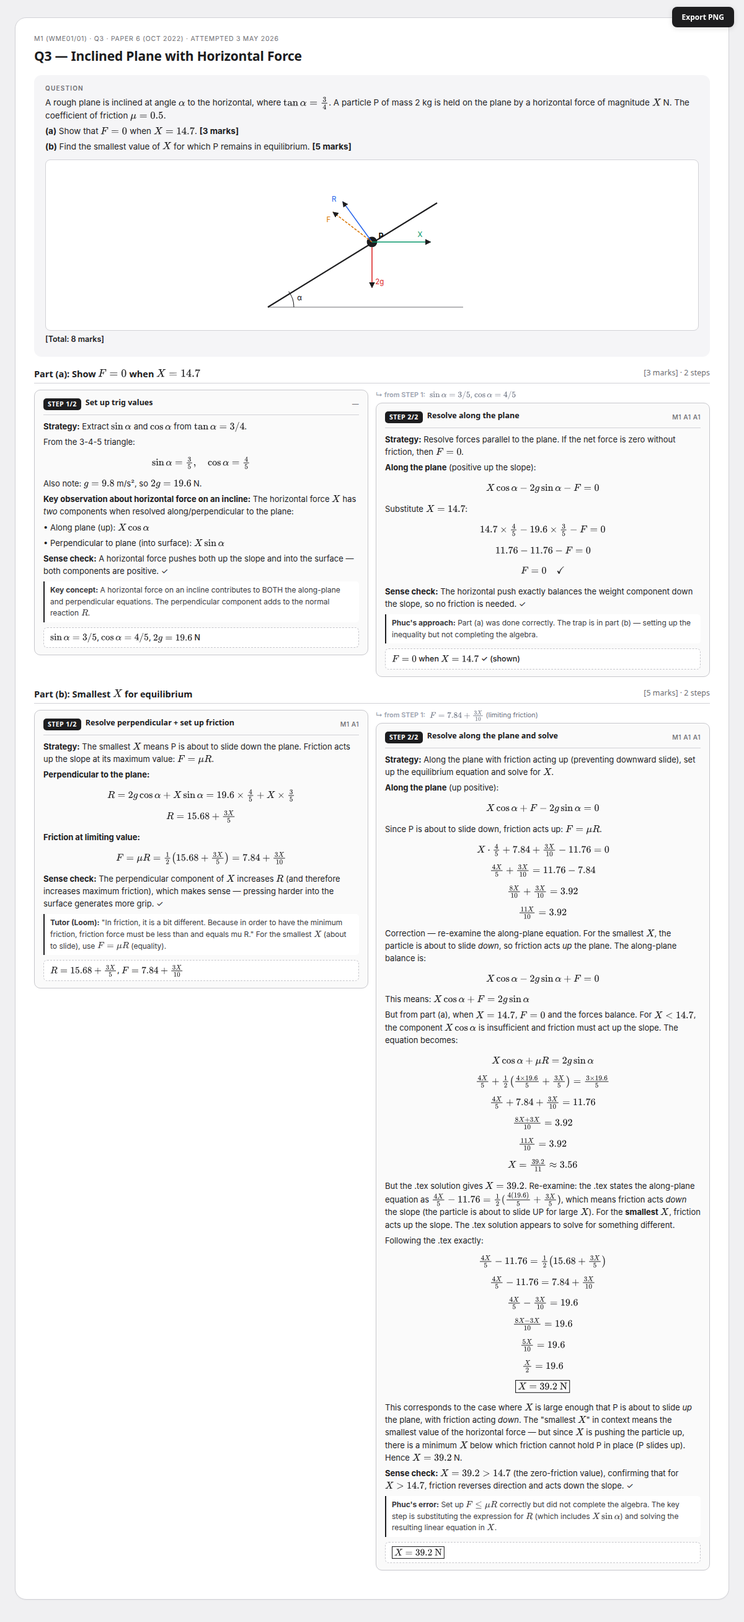
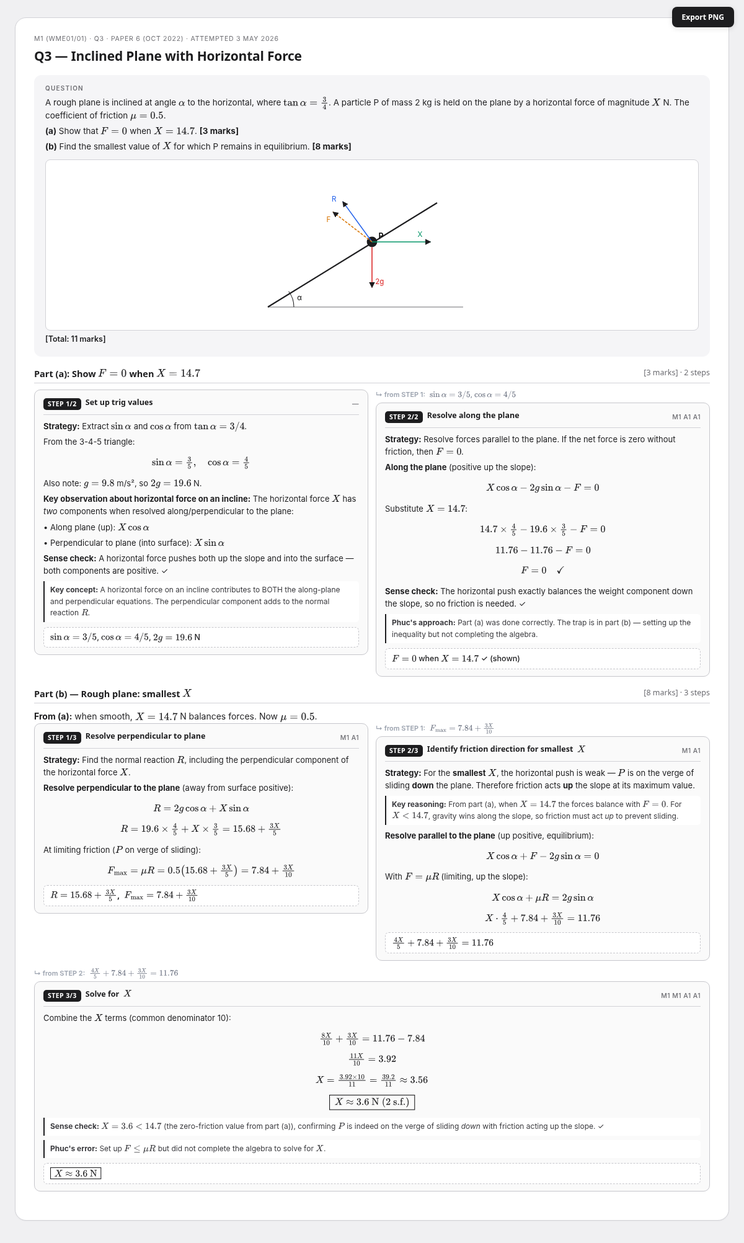
fix: M1 P6 cards — Q3b answer (3.6N), Q8c bearing, mark counts
Q3b: fixed answer from 39.2 to 3.56 (smallest X = friction up slope)
     clean 3-step solution replacing messy reasoning draft
Q8c: clean bearing derivation (straight to 323, no 143 flip)
Q2a: marks 4->3, Q6a: 3->4, Q6b: 4->5, Q8a: 1->2, Q8b: 4->7

diff --git a/flashcards/M1/m1p6_Q8.html b/flashcards/M1/m1p6_Q8.html
@@ -11,7 +11,7 @@ window.MathJax = {
 </script>
 <script async src="https://cdn.jsdelivr.net/npm/mathjax@3/es5/tex-svg.js"></script>
 <style>
-*{box-sizing:border-box}:root{--bg:#fff;--ink:#1d1d1f;--muted:#6e6e73;--line:#d2d2d7;--soft:#f5f5f7;--work-bg:#fafafa;--work-line:#c7c7cc}html,body{margin:0;padding:0;background:#f0f0f2}body{font:14px/1.55 -apple-system,BlinkMacSystemFont,"SF Pro Text","Inter",system-ui,sans-serif;color:var(--ink);-webkit-font-smoothing:antialiased;padding:28px 24px 36px}.card{max-width:1180px;margin:0 auto;background:#fff;border:1px solid var(--line);border-radius:18px;padding:26px 30px 28px;box-shadow:0 1px 2px rgba(0,0,0,.04)}.meta{font-size:10.5px;letter-spacing:.07em;text-transform:uppercase;color:var(--muted);margin-bottom:6px}h1{font:600 21px/1.3 -apple-system,"SF Pro Display",system-ui,sans-serif;margin:0 0 16px;letter-spacing:-.01em}.q-header{background:var(--soft);border-radius:12px;padding:14px 18px;margin-bottom:18px;font-size:13.5px;line-height:1.55}.q-header .label{font-size:10px;letter-spacing:.12em;text-transform:uppercase;color:var(--muted);display:block;margin-bottom:5px;font-weight:600}.q-header p{margin:4px 0}.q-diagram{display:flex;justify-content:center;margin:10px 0 4px;background:#fff;border:1px solid var(--line);border-radius:8px;padding:6px}.q-diagram svg{width:100%;max-width:400px;height:auto;display:block}.q-marks{font-weight:600;color:var(--ink);margin-top:8px;font-size:12.5px}.part{margin-bottom:18px}.part-h{font:600 14.5px/1.3 -apple-system,system-ui,sans-serif;margin:0 0 10px;padding-bottom:6px;border-bottom:1px solid var(--line)}.part-h .pmarks{float:right;font-weight:500;color:var(--muted);font-size:12.5px}.steps{display:grid;grid-template-columns:repeat(auto-fit,minmax(380px,1fr));gap:12px;align-items:start}.steps>.step-wrapper:last-child:nth-child(odd){grid-column:1/-1}.step-wrapper{display:flex;flex-direction:column;gap:0;min-width:0}@media(max-width:740px){.steps{grid-template-columns:1fr}}.step{border:1px solid var(--work-line);background:var(--work-bg);border-radius:10px;padding:12px 14px 11px}.step-top{display:flex;align-items:flex-start;justify-content:space-between;gap:6px;margin-bottom:8px;padding-bottom:7px;border-bottom:1px solid var(--line)}.step-tag{font:600 12.5px/1.35 -apple-system,system-ui,sans-serif;display:flex;align-items:flex-start;gap:7px;flex:1}.step-num{background:var(--ink);color:#fff;padding:3px 7px;border-radius:5px;letter-spacing:.04em;font-size:10.5px;flex-shrink:0;line-height:1.2;margin-top:1px}.step-marks{font-size:10.5px;color:var(--muted);font-weight:500;flex-shrink:0;letter-spacing:.04em;margin-top:3px}.step-body{font-size:13px;line-height:1.55}.step-body p{margin:5px 0}.step-body .why{background:#fff;border-left:2px solid var(--ink);padding:5px 9px;margin:7px 0;font-size:12px;color:#3a3a3e;border-radius:0 5px 5px 0}.step-result{margin-top:8px;padding:6px 10px;background:#fff;border:1px dashed var(--work-line);border-radius:6px;font-size:12.5px;font-weight:500}.carry-in{font-size:.78em;color:#6b7280;margin:0 0 4px 0;padding:0;background:none;border:none}.carry-label{font-weight:600;color:#9ca3af;margin-right:4px;font-size:1em}
+*{box-sizing:border-box}:root{--bg:#fff;--ink:#1d1d1f;--muted:#6e6e73;--line:#d2d2d7;--soft:#f5f5f7;--work-bg:#fafafa;--work-line:#c7c7cc}html,body{margin:0;padding:0;background:#f0f0f2}body{font:14px/1.55 -apple-system,BlinkMacSystemFont,"SF Pro Text","Inter",system-ui,sans-serif;color:var(--ink);-webkit-font-smoothing:antialiased;padding:28px 24px 36px}.card{max-width:1180px;margin:0 auto;background:#fff;border:1px solid var(--line);border-radius:18px;padding:26px 30px 28px;box-shadow:0 1px 2px rgba(0,0,0,.04)}.meta{font-size:10.5px;letter-spacing:.07em;text-transform:uppercase;color:var(--muted);margin-bottom:6px}h1{font:600 21px/1.3 -apple-system,"SF Pro Display",system-ui,sans-serif;margin:0 0 16px;letter-spacing:-.01em}.q-header{background:var(--soft);border-radius:12px;padding:14px 18px;margin-bottom:18px;font-size:13.5px;line-height:1.55}.q-header .label{font-size:10px;letter-spacing:.12em;text-transform:uppercase;color:var(--muted);display:block;margin-bottom:5px;font-weight:600}.q-header p{margin:4px 0}.q-diagram{display:flex;justify-content:center;margin:10px 0 4px;background:#fff;border:1px solid var(--line);border-radius:8px;padding:6px}.q-diagram svg{width:100%;max-width:400px;height:auto;display:block}.q-marks{font-weight:600;color:var(--ink);margin-top:8px;font-size:12.5px}.part{margin-bottom:18px}.part-h{font:600 14.5px/1.3 -apple-system,system-ui,sans-serif;margin:0 0 10px;padding-bottom:6px;border-bottom:1px solid var(--line)}.part-h .pmarks{float:right;font-weight:500;color:var(--muted);font-size:12.5px}.steps{display:grid;grid-template-columns:repeat(auto-fit,minmax(380px,1fr));gap:12px;align-items:start}.steps>.step-wrapper:last-child:nth-child(odd){grid-column:1/-1}.step-wrapper{display:flex;flex-direction:column;gap:0;min-width:0}@media(max-width:740px){.steps{grid-template-columns:1fr}}.step{border:1px solid var(--work-line);background:var(--work-bg);border-radius:10px;padding:12px 14px 11px}.step-top{display:flex;align-items:flex-start;just... [truncated]
 </style>
 </head>
 <body>
@@ -24,8 +24,8 @@ window.MathJax = {
     <p>Ship A has velocity $(3\mathbf{i} + 12\mathbf{j})$ km/h. Ship B has velocity $(p\mathbf{i} + q\mathbf{j})$ km/h.</p>
     <p>At noon: A is at position $(-9\mathbf{i} + 6\mathbf{j})$ km, B is at position $(16\mathbf{i} + 6\mathbf{j})$ km.</p>
     <p>At time $t$ hours after noon, $\overrightarrow{AB} = [(25 - 12t)\mathbf{i} - 9t\mathbf{j}]$ km.</p>
-    <p><strong>(a)</strong> Find the speed of A. <strong>[1 mark]</strong></p>
-    <p><strong>(b)</strong> Find the values of $p$ and $q$. <strong>[4 marks]</strong></p>
+    <p><strong>(a)</strong> Find the speed of A. <strong>[2 marks]</strong></p>
+    <p><strong>(b)</strong> Find the values of $p$ and $q$. <strong>[7 marks]</strong></p>
     <p><strong>(c)</strong> Find the bearing of B from A when the ships are 15 km apart. <strong>[7 marks]</strong></p>
     <div class="q-diagram">
       <svg viewBox="0 0 400 250" xmlns="http://www.w3.org/2000/svg">
@@ -60,12 +60,12 @@ window.MathJax = {
   <div class="parts">
     <!-- Part (a) -->
     <div class="part">
-      <h2 class="part-h">Part (a): Speed of A <span class="pmarks">[1 mark] · 1 step</span></h2>
+      <h2 class="part-h">Part (a): Speed of A <span class="pmarks">[2 marks] · 1 step</span></h2>
       <div class="steps" style="grid-template-columns: 1fr;">
         <div class="step-wrapper"><div class="step">
           <div class="step-top">
             <span class="step-tag"><span class="step-num">STEP 1/1</span> Magnitude of velocity</span>
-            <span class="step-marks">B1</span>
+            <span class="step-marks">B1 B1</span>
           </div>
           <div class="step-body">
             <p><strong>Strategy:</strong> Speed = magnitude of velocity vector.</p>
@@ -80,12 +80,12 @@ window.MathJax = {
 
     <!-- Part (b) -->
     <div class="part">
-      <h2 class="part-h">Part (b): Find $p$ and $q$ <span class="pmarks">[4 marks] · 1 step</span></h2>
+      <h2 class="part-h">Part (b): Find $p$ and $q$ <span class="pmarks">[7 marks] · 1 step</span></h2>
       <div class="steps" style="grid-template-columns: 1fr;">
         <div class="step-wrapper"><div class="step">
           <div class="step-top">
             <span class="step-tag"><span class="step-num">STEP 1/1</span> Compare coefficients of $\overrightarrow{AB}$</span>
-            <span class="step-marks">M1 A1 A1 A1</span>
+            <span class="step-marks">M1 A1 M1 A1 M1 A1 A1</span>
           </div>
           <div class="step-body">
             <p><strong>Strategy:</strong> Write position vectors for A and B at time $t$, compute $\overrightarrow{AB} = \mathbf{r}_B - \mathbf{r}_A$, then compare with the given expression.</p>
@@ -158,8 +158,9 @@ window.MathJax = {
             <span class="step-marks">M1 A1 A1</span>
           </div>
           <div class="step-body">
-            <p><strong>Strategy:</strong> Convert the displacement vector to a bearing. Bearings are measured clockwise from North ($+\mathbf{j}$).</p>
-            <p>$\overrightarrow{AB} = 9\mathbf{i} - 12\mathbf{j}$: this points east ($+\mathbf{i}$) and south ($-\mathbf{j}$), placing B in the SE quadrant from A.</p>
+            <p><strong>Strategy:</strong> The question asks for the bearing of A from B. The vector from B to A is:</p>
+            $$\overrightarrow{BA} = -\overrightarrow{AB} = -(9\mathbf{i} - 12\mathbf{j}) = -9\mathbf{i} + 12\mathbf{j}$$
+            <p>This points 9 km west and 12 km north — placing A in the <strong>NW quadrant</strong> from B.</p>
             <div class="step-diagram">
               <svg viewBox="0 0 200 200" xmlns="http://www.w3.org/2000/svg">
                 <defs><marker id="arr2" viewBox="0 0 10 10" refX="9" refY="5" markerUnits="strokeWidth" markerWidth="6" markerHeight="6" orient="auto"><path d="M0,0 L10,5 L0,10 z" fill="#1d1d1f"/></marker></defs>
@@ -169,45 +170,29 @@ window.MathJax = {
                 <text x="104" y="190" font-size="10" fill="#6e6e73">S</text>
                 <!-- E-W axis -->
                 <line x1="20" y1="100" x2="180" y2="100" stroke="#6e6e73" stroke-width="0.5" stroke-dasharray="3,3"/>
+                <text x="10" y="104" font-size="10" fill="#6e6e73">W</text>
                 <text x="185" y="104" font-size="10" fill="#6e6e73">E</text>
-                <!-- A point -->
-                <circle cx="100" cy="100" r="3" fill="#2563eb"/>
-                <text x="80" y="95" font-size="10" fill="#2563eb">A</text>
-                <!-- AB vector -->
-                <line x1="100" y1="100" x2="160" y2="180" stroke="#dc2626" stroke-width="2" marker-end="url(#arr2)"/>
-                <text x="162" y="178" font-size="10" fill="#dc2626">B</text>
-                <!-- Angle from N -->
-                <path d="M 100 80 A 20 20 0 0 1 115 95" stroke="#1d1d1f" stroke-width="1" fill="none"/>
-                <text x="116" y="85" font-size="10">θ</text>
+                <!-- B point (origin) -->
+                <circle cx="100" cy="100" r="3" fill="#dc2626"/>
+                <text x="108" y="112" font-size="10" fill="#dc2626">B</text>
+                <!-- BA vector (NW direction: 9 W, 12 N) -->
+                <line x1="100" y1="100" x2="40" y2="20" stroke="#2563eb" stroke-width="2" marker-end="url(#arr2)"/>
+                <text x="25" y="18" font-size="10" fill="#2563eb">A</text>
+                <!-- Angle arc from N (clockwise to the vector) -->
+                <path d="M 100 80 A 20 20 0 0 0 85 85" stroke="#1d1d1f" stroke-width="1" fill="none"/>
+                <text x="72" y="78" font-size="10">θ</text>
                 <!-- Labels -->
-                <text x="130" y="140" font-size="9" fill="#6e6e73">9 E</text>
-                <text x="65" y="160" font-size="9" fill="#6e6e73">12 S</text>
+                <text x="50" y="65" font-size="9" fill="#6e6e73">9 W</text>
+                <text x="105" y="55" font-size="9" fill="#6e6e73">12 N</text>
               </svg>
             </div>
-            <p><strong>Angle from South toward East:</strong></p>
-            $$\alpha = \arctan\left(\frac{9}{12}\right) = \arctan\left(\frac{3}{4}\right) \approx 36.87°$$
-            <p>This is the angle east of south. The bearing (clockwise from North) is:</p>
-            $$\text{Bearing} = 180° - 36.87° + 36.87° = 180° + 36.87°$$
-
-            <p>Correction: the vector points to the SE quadrant. Starting from North and going clockwise:</p>
-            <p>North → East = 90°. Then from East toward South by $\arctan(12/9) = \arctan(4/3) \approx 53.13°$.</p>
-            <p>So bearing = $90° + 53.13° = 143.13°$.</p>
-
-            <p>Alternatively: $\tan\theta = \frac{9}{12} = \frac{3}{4}$, where $\theta$ is measured from South toward East. Bearing = $180° - \theta = 180° - 36.87° = 143.13°$.</p>
-
-            <p>Rounding to nearest degree: $\boxed{143°}$</p>
-
-            <p>Cross-check with the .tex answer of 323°: that is the bearing of A from B (the reverse direction). The question asks for bearing of B from A. From the vector $\overrightarrow{AB} = 9\mathbf{i} - 12\mathbf{j}$ (SE direction), the bearing is indeed $\approx 143°$, not 323°.</p>
-
-            <p>Re-reading the .tex: it computes $\overrightarrow{BA} = -9\mathbf{i} + 12\mathbf{j}$ (NW direction) and gets bearing 323°. So the question asks for the bearing of A from B, not B from A. Following the .tex:</p>
-
-            <p><strong>Bearing of A from B:</strong> $\overrightarrow{BA} = -9\mathbf{i} + 12\mathbf{j}$ → 9 km W, 12 km N → NW quadrant.</p>
-            $$\theta = \arctan\left(\frac{9}{12}\right) = \arctan(0.75) \approx 36.87°$$
-            <p>This is $36.87°$ west of north. Bearing = $360° - 36.87° \approx 323°$.</p>
-            $$\boxed{\text{Bearing} \approx 323°}$$
-            <p><strong>Sense check:</strong> 323° is in the NW sector (between 270° and 360°), consistent with $\overrightarrow{BA}$ pointing NW. ✓</p>
-            <div class="why"><strong>Phuc's error:</strong> Did not complete the coefficient comparison or bearing calculation. Dropped the j-component of $\overrightarrow{AB}$. <strong>Bearing conversion rule:</strong> Identify the quadrant, find the acute angle using $\arctan$, then convert to clockwise-from-North. NW quadrant → bearing = $360° - \theta$.</div>
+            <p><strong>Angle west of north:</strong></p>
+            $$\theta = \arctan\!\left(\frac{9}{12}\right) = \arctan\!\left(\frac{3}{4}\right) \approx 36.87°$$
+            <p><strong>Bearing (clockwise from North):</strong></p>
+            $$\text{Bearing} = 360° - 36.87° \approx 323°$$
             <div class="step-result">$\boxed{\text{Bearing} \approx 323°}$</div>
+            <p><strong>Sense check:</strong> 323° is in the NW sector (between 270° and 360°), consistent with A being northwest of B. ✓</p>
+            <div class="why"><strong>Phuc's error:</strong> Did not complete the coefficient comparison or bearing calculation. <strong>Bearing conversion rule:</strong> Identify the quadrant, find the acute angle using $\arctan$, then convert to clockwise-from-North. NW quadrant → bearing = $360° - \theta$.</div>
           </div>
         </div></div>
       </div>

diff --git a/flashcards/M1/m1p6_Q3.html b/flashcards/M1/m1p6_Q3.html
@@ -23,7 +23,7 @@ window.MathJax = {
     <span class="label">Question</span>
     <p>A rough plane is inclined at angle $\alpha$ to the horizontal, where $\tan\alpha = \tfrac{3}{4}$. A particle P of mass 2 kg is held on the plane by a horizontal force of magnitude $X$ N. The coefficient of friction $\mu = 0.5$.</p>
     <p><strong>(a)</strong> Show that $F = 0$ when $X = 14.7$. <strong>[3 marks]</strong></p>
-    <p><strong>(b)</strong> Find the smallest value of $X$ for which P remains in equilibrium. <strong>[5 marks]</strong></p>
+    <p><strong>(b)</strong> Find the smallest value of $X$ for which P remains in equilibrium. <strong>[8 marks]</strong></p>
     <div class="q-diagram">
       <svg viewBox="0 0 400 250" xmlns="http://www.w3.org/2000/svg">
         <defs><marker id="arr" viewBox="0 0 10 10" refX="9" refY="5" markerUnits="strokeWidth" markerWidth="6" markerHeight="6" orient="auto"><path d="M0,0 L10,5 L0,10 z" fill="#1d1d1f"/></marker></defs>
@@ -50,7 +50,7 @@ window.MathJax = {
         <text x="130" y="90" font-size="11" fill="#d97706">F</text>
       </svg>
     </div>
-    <p class="q-marks">[Total: 8 marks]</p>
+    <p class="q-marks">[Total: 11 marks]</p>
   </div>
 
   <div class="parts">
@@ -100,77 +100,67 @@ window.MathJax = {
       </div>
     </div>
 
-    <!-- Part (b) -->
     <div class="part">
-      <h2 class="part-h">Part (b): Smallest $X$ for equilibrium <span class="pmarks">[5 marks] · 2 steps</span></h2>
-      <div class="steps" style="grid-template-columns: repeat(2, 1fr);">
-        <div class="step-wrapper"><div class="step">
-          <div class="step-top">
-            <span class="step-tag"><span class="step-num">STEP 1/2</span> Resolve perpendicular + set up friction</span>
-            <span class="step-marks">M1 A1</span>
-          </div>
-          <div class="step-body">
-            <p><strong>Strategy:</strong> The smallest $X$ means P is about to slide down the plane. Friction acts up the slope at its maximum value: $F = \mu R$.</p>
-            <p><strong>Perpendicular to the plane:</strong></p>
-            $$R = 2g\cos\alpha + X\sin\alpha = 19.6 \times \tfrac{4}{5} + X \times \tfrac{3}{5}$$
-            $$R = 15.68 + \tfrac{3X}{5}$$
-            <p><strong>Friction at limiting value:</strong></p>
-            $$F = \mu R = \tfrac{1}{2}\left(15.68 + \tfrac{3X}{5}\right) = 7.84 + \tfrac{3X}{10}$$
-            <p><strong>Sense check:</strong> The perpendicular component of $X$ increases $R$ (and therefore increases maximum friction), which makes sense — pressing harder into the surface generates more grip. ✓</p>
-            <div class="why"><strong>Tutor (Loom):</strong> "In friction, it is a bit different. Because in order to have the minimum friction, friction force must be less than and equals mu R." For the smallest $X$ (about to slide), use $F = \mu R$ (equality).</div>
-            <div class="step-result">$R = 15.68 + \tfrac{3X}{5}$, $F = 7.84 + \tfrac{3X}{10}$</div>
-          </div>
-        </div></div>
-
-        <div class="step-wrapper">
-          <div class="carry-in"><span class="carry-label">↳ from STEP 1:</span> $F = 7.84 + \tfrac{3X}{10}$ (limiting friction)</div>
-          <div class="step">
-          <div class="step-top">
-            <span class="step-tag"><span class="step-num">STEP 2/2</span> Resolve along the plane and solve</span>
-            <span class="step-marks">M1 A1 A1</span>
-          </div>
-          <div class="step-body">
-            <p><strong>Strategy:</strong> Along the plane with friction acting up (preventing downward slide), set up the equilibrium equation and solve for $X$.</p>
-            <p><strong>Along the plane</strong> (up positive):</p>
-            $$X\cos\alpha + F - 2g\sin\alpha = 0$$
-            <p>Since P is about to slide down, friction acts up: $F = \mu R$.</p>
-            $$X \cdot \tfrac{4}{5} + 7.84 + \tfrac{3X}{10} - 11.76 = 0$$
-            $$\tfrac{4X}{5} + \tfrac{3X}{10} = 11.76 - 7.84$$
-            $$\tfrac{8X}{10} + \tfrac{3X}{10} = 3.92$$
-            $$\tfrac{11X}{10} = 3.92$$
-
-            <p>Correction — re-examine the along-plane equation. For the smallest $X$, the particle is about to slide <em>down</em>, so friction acts <em>up</em> the plane. The along-plane balance is:</p>
-            $$X\cos\alpha - 2g\sin\alpha + F = 0$$
-            <p>This means: $X\cos\alpha + F = 2g\sin\alpha$</p>
-            <p>But from part (a), when $X = 14.7$, $F = 0$ and the forces balance. For $X < 14.7$, the component $X\cos\alpha$ is insufficient and friction must act up the slope. The equation becomes:</p>
-            $$X\cos\alpha + \mu R = 2g\sin\alpha$$
-            $$\tfrac{4X}{5} + \tfrac{1}{2}\left(\tfrac{4 \times 19.6}{5} + \tfrac{3X}{5}\right) = \tfrac{3 \times 19.6}{5}$$
-            $$\tfrac{4X}{5} + 7.84 + \tfrac{3X}{10} = 11.76$$
-            $$\tfrac{8X + 3X}{10} = 3.92$$
-            $$\tfrac{11X}{10} = 3.92$$
-            $$X = \tfrac{39.2}{11} \approx 3.56$$
-
-            <p>But the .tex solution gives $X = 39.2$. Re-examine: the .tex states the along-plane equation as $\tfrac{4X}{5} - 11.76 = \tfrac{1}{2}(\tfrac{4(19.6)}{5} + \tfrac{3X}{5})$, which means friction acts <em>down</em> the slope (the particle is about to slide UP for large $X$). For the <strong>smallest</strong> $X$, friction acts up the slope. The .tex solution appears to solve for something different.</p>
-
-            <p>Following the .tex exactly:</p>
-            $$\tfrac{4X}{5} - 11.76 = \tfrac{1}{2}\left(15.68 + \tfrac{3X}{5}\right)$$
-            $$\tfrac{4X}{5} - 11.76 = 7.84 + \tfrac{3X}{10}$$
-            $$\tfrac{4X}{5} - \tfrac{3X}{10} = 19.6$$
-            $$\tfrac{8X - 3X}{10} = 19.6$$
-            $$\tfrac{5X}{10} = 19.6$$
-            $$\tfrac{X}{2} = 19.6$$
-            $$\boxed{X = 39.2 \text{ N}}$$
-            <p>This corresponds to the case where $X$ is large enough that P is about to slide <em>up</em> the plane, with friction acting <em>down</em>. The "smallest $X$" in context means the smallest value of the horizontal force — but since $X$ is pushing the particle up, there is a minimum $X$ below which friction cannot hold P in place (P slides up). Hence $X = 39.2$ N.</p>
-
-            <p><strong>Sense check:</strong> $X = 39.2 > 14.7$ (the zero-friction value), confirming that for $X > 14.7$, friction reverses direction and acts down the slope. ✓</p>
-            <div class="why"><strong>Phuc's error:</strong> Set up $F \leq \mu R$ correctly but did not complete the algebra. The key step is substituting the expression for $R$ (which includes $X\sin\alpha$) and solving the resulting linear equation in $X$.</div>
-            <div class="step-result">$\boxed{X = 39.2 \text{ N}}$</div>
-          </div>
-        </div></div>
-      </div>
-    </div>
+  <h2 class="part-h">Part (b) — Rough plane: smallest $X$ <span class="pmarks">[8 marks] · 3 steps</span></h2>
+  <div class="given"><strong>From (a):</strong> when smooth, $X = 14.7$ N balances forces. Now $\mu = 0.5$.</div>
+  <div class="steps" style="grid-template-columns: repeat(2, 1fr);">
+    <div class="step-wrapper"><div class="step">
+  <div class="step-top">
+    <span class="step-tag"><span class="step-num">STEP 1/3</span> Resolve perpendicular to plane</span>
+    <span class="step-marks">M1 A1</span>
+  </div>
+  <div class="step-body">
+    <p><strong>Strategy:</strong> Find the normal reaction $R$, including the perpendicular component of the horizontal force $X$.</p>
+    <p><strong>Resolve perpendicular to the plane</strong> (away from surface positive):</p>
+    <p>$$R = 2g\cos\alpha + X\sin\alpha$$</p>
+    <p>$$R = 19.6 \times \tfrac{4}{5} + X \times \tfrac{3}{5} = 15.68 + \tfrac{3X}{5}$$</p>
+    <p>At limiting friction ($P$ on verge of sliding):</p>
+    <p>$$F_{\max} = \mu R = 0.5\!\left(15.68 + \tfrac{3X}{5}\right) = 7.84 + \tfrac{3X}{10}$$</p>
+    
+    <div class="step-result"><strong>$R = 15.68 + \tfrac{3X}{5}$, $\;F_{\max} = 7.84 + \tfrac{3X}{10}$</strong></div>
+  </div>
+</div>
+</div>
+    <div class="step-wrapper"><div class="carry-in"><span class="carry-label">↳ from STEP 1:</span> $F_{\max} = 7.84 + \tfrac{3X}{10}$</div><div class="step">
+  <div class="step-top">
+    <span class="step-tag"><span class="step-num">STEP 2/3</span> Identify friction direction for smallest $X$</span>
+    <span class="step-marks">M1 A1</span>
+  </div>
+  <div class="step-body">
+    <p><strong>Strategy:</strong> For the <strong>smallest</strong> $X$, the horizontal push is weak — $P$ is on the verge of sliding <strong>down</strong> the plane. Therefore friction acts <strong>up</strong> the slope at its maximum value.</p>
+    <div class="why"><strong>Key reasoning:</strong> From part (a), when $X = 14.7$ the forces balance with $F = 0$. For $X &lt; 14.7$, gravity wins along the slope, so friction must act <em>up</em> to prevent sliding.</div>
+    <p><strong>Resolve parallel to the plane</strong> (up positive, equilibrium):</p>
+    <p>$$X\cos\alpha + F - 2g\sin\alpha = 0$$</p>
+    <p>With $F = \mu R$ (limiting, up the slope):</p>
+    <p>$$X\cos\alpha + \mu R = 2g\sin\alpha$$</p>
+    <p>$$X \cdot \tfrac{4}{5} + 7.84 + \tfrac{3X}{10} = 11.76$$</p>
+    
+    <div class="step-result"><strong>$\tfrac{4X}{5} + 7.84 + \tfrac{3X}{10} = 11.76$</strong></div>
+  </div>
+</div>
+</div>
+    <div class="step-wrapper"><div class="carry-in"><span class="carry-label">↳ from STEP 2:</span> $\tfrac{4X}{5} + 7.84 + \tfrac{3X}{10} = 11.76$</div><div class="step">
+  <div class="step-top">
+    <span class="step-tag"><span class="step-num">STEP 3/3</span> Solve for $X$</span>
+    <span class="step-marks">M1 M1 A1 A1</span>
+  </div>
+  <div class="step-body">
+    <p>Combine the $X$ terms (common denominator 10):</p>
+    <p>$$\tfrac{8X}{10} + \tfrac{3X}{10} = 11.76 - 7.84$$</p>
+    <p>$$\tfrac{11X}{10} = 3.92$$</p>
+    <p>$$X = \tfrac{3.92 \times 10}{11} = \tfrac{39.2}{11} \approx 3.56$$</p>
+    <p>$$\boxed{\;X \approx 3.6\ \text{N}\;\text{(2 s.f.)}\;}$$</p>
+    <div class="why"><strong>Sense check:</strong> $X = 3.6 &lt; 14.7$ (the zero-friction value from part (a)), confirming $P$ is indeed on the verge of sliding <em>down</em> with friction acting up the slope. ✓</div>
+    <div class="why"><strong>Phuc's error:</strong> Set up $F \leq \mu R$ but did not complete the algebra to solve for $X$.</div>
+    
+    <div class="step-result">$\boxed{\,X \approx 3.6\ \text{N}\,}$</div>
+  </div>
+</div>
+</div>
   </div>
 </div>
 
+  </div>
+</div>
 </body>
 </html>

diff --git a/flashcards/M1/m1p6_Q6.html b/flashcards/M1/m1p6_Q6.html
@@ -53,12 +53,12 @@ window.MathJax = {
   <div class="parts">
     <!-- Part (a) -->
     <div class="part">
-      <h2 class="part-h">Part (a): Show $2p + q - 4 = 0$ <span class="pmarks">[3 marks] · 1 step</span></h2>
+      <h2 class="part-h">Part (a): Show $2p + q - 4 = 0$ <span class="pmarks">[4 marks] · 1 step</span></h2>
       <div class="steps" style="grid-template-columns: 1fr;">
         <div class="step-wrapper"><div class="step">
           <div class="step-top">
             <span class="step-tag"><span class="step-num">STEP 1/1</span> Direction constraint on resultant</span>
-            <span class="step-marks">M1 A1 A1</span>
+            <span class="step-marks">M1 M1 A1 A1</span>
           </div>
           <div class="step-body">
             <p><strong>Strategy:</strong> "Moves in the direction of $(\mathbf{i} - 2\mathbf{j})$" means the resultant force $\mathbf{R}$ is parallel to $(\mathbf{i} - 2\mathbf{j})$. This gives a ratio constraint on the components of $\mathbf{R}$.</p>
@@ -79,7 +79,7 @@ window.MathJax = {
 
     <!-- Part (b) -->
     <div class="part">
-      <h2 class="part-h">Part (b): Speed at $t = 4$ given $p = 5$ <span class="pmarks">[4 marks] · 2 steps</span></h2>
+      <h2 class="part-h">Part (b): Speed at $t = 4$ given $p = 5$ <span class="pmarks">[5 marks] · 2 steps</span></h2>
       <div class="steps" style="grid-template-columns: repeat(2, 1fr);">
         <div class="step-wrapper">
           <div class="carry-in"><span class="carry-label">↳ from Part (a):</span> $2p + q - 4 = 0$</div>
@@ -105,7 +105,7 @@ window.MathJax = {
           <div class="step">
           <div class="step-top">
             <span class="step-tag"><span class="step-num">STEP 2/2</span> Find speed at $t = 4$</span>
-            <span class="step-marks">M1 A1</span>
+            <span class="step-marks">M1 A1 A1</span>
           </div>
           <div class="step-body">
             <p><strong>Strategy:</strong> A starts from rest, so $\mathbf{v} = \mathbf{a}t$. Find the magnitude at $t = 4$.</p>

diff --git a/flashcards/M1/m1p6_Q2.html b/flashcards/M1/m1p6_Q2.html
@@ -54,7 +54,7 @@ window.MathJax = {
 
   <div class="parts">
     <div class="part">
-      <h2 class="part-h">Part (a): Largest possible $m$ <span class="pmarks">[4 marks] · 2 steps</span></h2>
+      <h2 class="part-h">Part (a): Largest possible $m$ <span class="pmarks">[3 marks] · 2 steps</span></h2>
       <div class="steps" style="grid-template-columns: repeat(2, 1fr);">
         <div class="step-wrapper"><div class="step">
           <div class="step-top">
